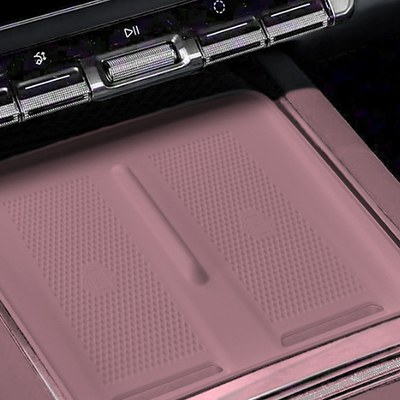
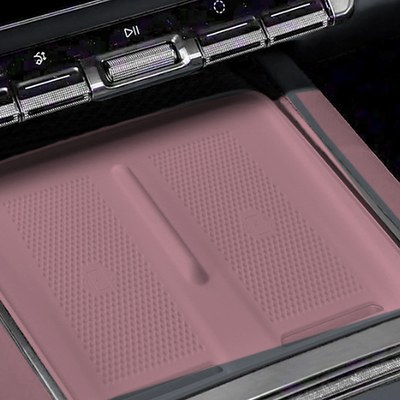
무선충전 패드(5번): 오렌지·퍼플 사진의 크롬 테두리 원래대로 복구

Changed region(s): [[0.27, 0.75, 1.0, 1.0], [0.72, 0.21, 1.0, 0.6], [0.0, 0.75, 0.18, 1.0]]

diff --git a/shop/config.js b/shop/config.js
@@ -8,4 +8,4 @@ window.SHEET_URL = 'https://docs.google.com/spreadsheets/d/19crq_-szVqdJRlVK12RK
 window.KAKAO_CHANNEL_URL = '';
 
 // 상품 사진 버전 (사진을 교체하면 숫자를 올려 주세요)
-window.ASSET_V = '10052100';
+window.ASSET_V = '10052200';
